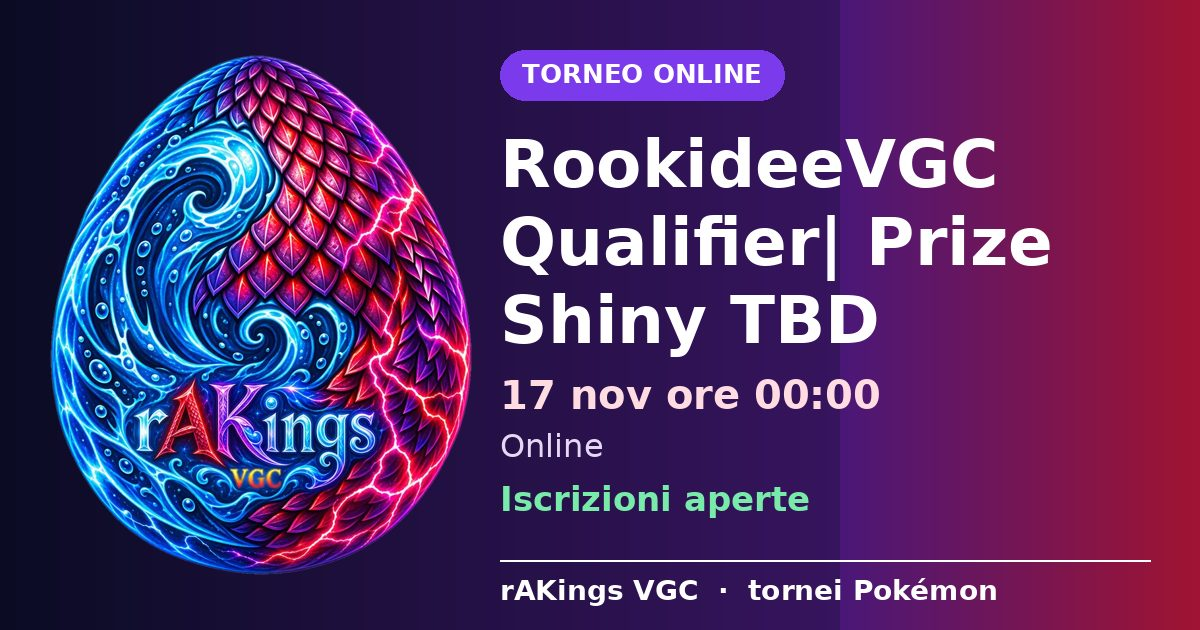
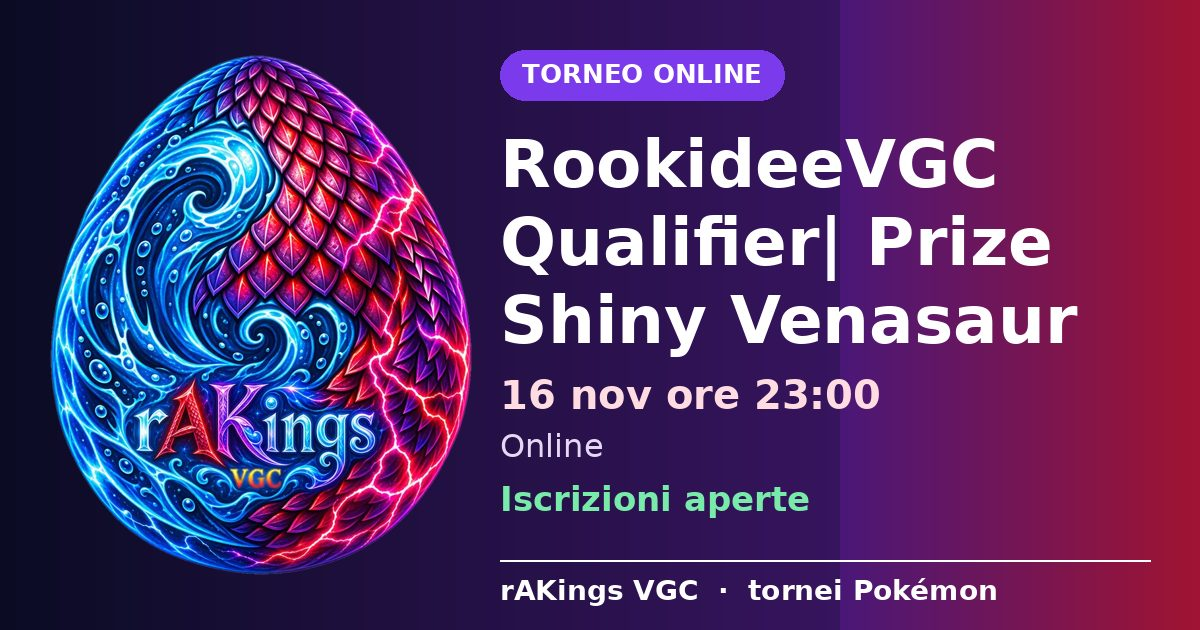
Aggiorna tornei

Changed region(s): [[0.6167, 0.4524, 0.8942, 0.5429], [0.6167, 0.6032, 0.6783, 0.6635], [0.4317, 0.6032, 0.4625, 0.6635]]

diff --git a/e/1w1ygww.html b/e/1w1ygww.html
@@ -1,12 +1,12 @@
 <!doctype html>
-<html lang="it"><head><meta charset="utf-8"><title>RookideeVGC Qualifier| Prize Shiny TBD · rAKings VGC</title>
+<html lang="it"><head><meta charset="utf-8"><title>RookideeVGC Qualifier| Prize Shiny Venasaur · rAKings VGC</title>
 <meta name="viewport" content="width=device-width,initial-scale=1"><meta name="robots" content="noindex">
 <meta property="og:type" content="website"><meta property="og:site_name" content="rAKings VGC">
-<meta property="og:title" content="RookideeVGC Qualifier| Prize Shiny TBD · rAKings VGC"><meta property="og:description" content="Online · 17 nov ore 00:00">
+<meta property="og:title" content="RookideeVGC Qualifier| Prize Shiny Venasaur · rAKings VGC"><meta property="og:description" content="Online · 16 nov ore 23:00">
 <meta property="og:url" content="https://rakings.github.io/VGCrAKings/e/1w1ygww.html"><meta property="og:image" content="https://rakings.github.io/VGCrAKings/e/1w1ygww.jpg">
 <meta property="og:image:width" content="1200"><meta property="og:image:height" content="630">
-<meta name="twitter:card" content="summary_large_image"><meta name="twitter:title" content="RookideeVGC Qualifier| Prize Shiny TBD · rAKings VGC">
-<meta name="twitter:description" content="Online · 17 nov ore 00:00"><meta name="twitter:image" content="https://rakings.github.io/VGCrAKings/e/1w1ygww.jpg">
+<meta name="twitter:card" content="summary_large_image"><meta name="twitter:title" content="RookideeVGC Qualifier| Prize Shiny Venasaur · rAKings VGC">
+<meta name="twitter:description" content="Online · 16 nov ore 23:00"><meta name="twitter:image" content="https://rakings.github.io/VGCrAKings/e/1w1ygww.jpg">
 <link rel="canonical" href="https://rakings.github.io/VGCrAKings/e/1w1ygww.html">
 <script>location.replace("../index.html#e=1w1ygww")</script></head>
 <body style="font-family:system-ui,sans-serif;background:#1d0b0d;color:#fff;text-align:center;padding:40px 16px">
